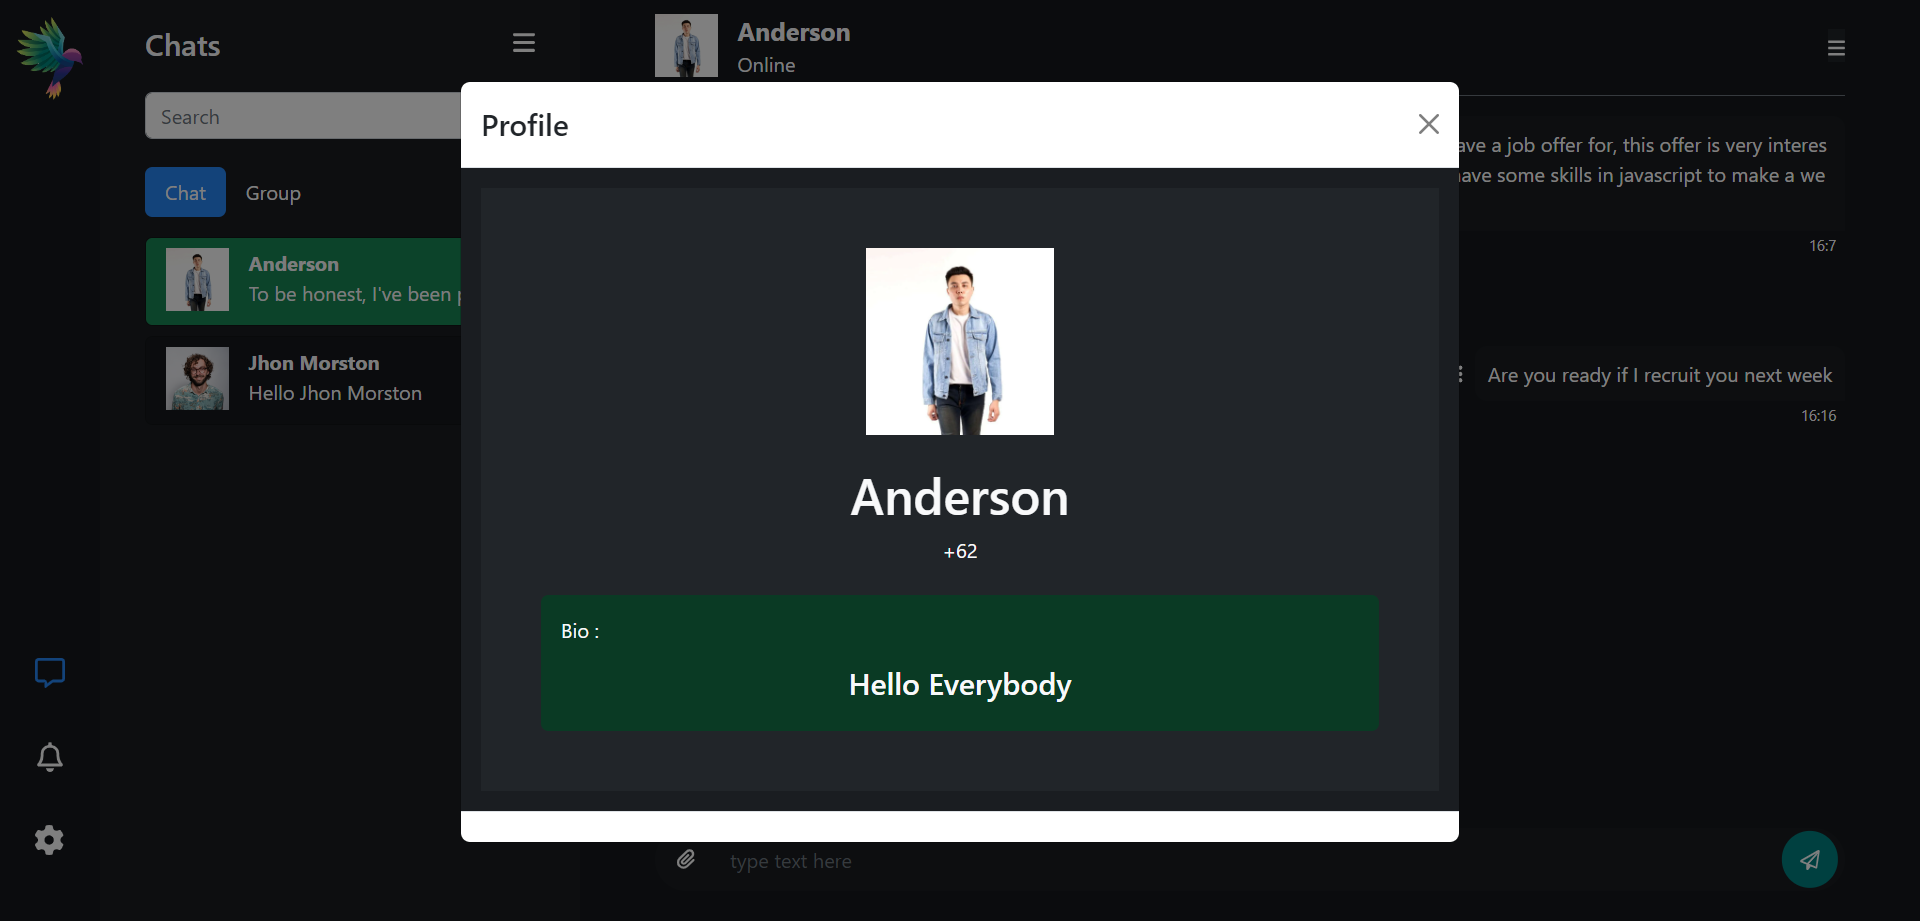
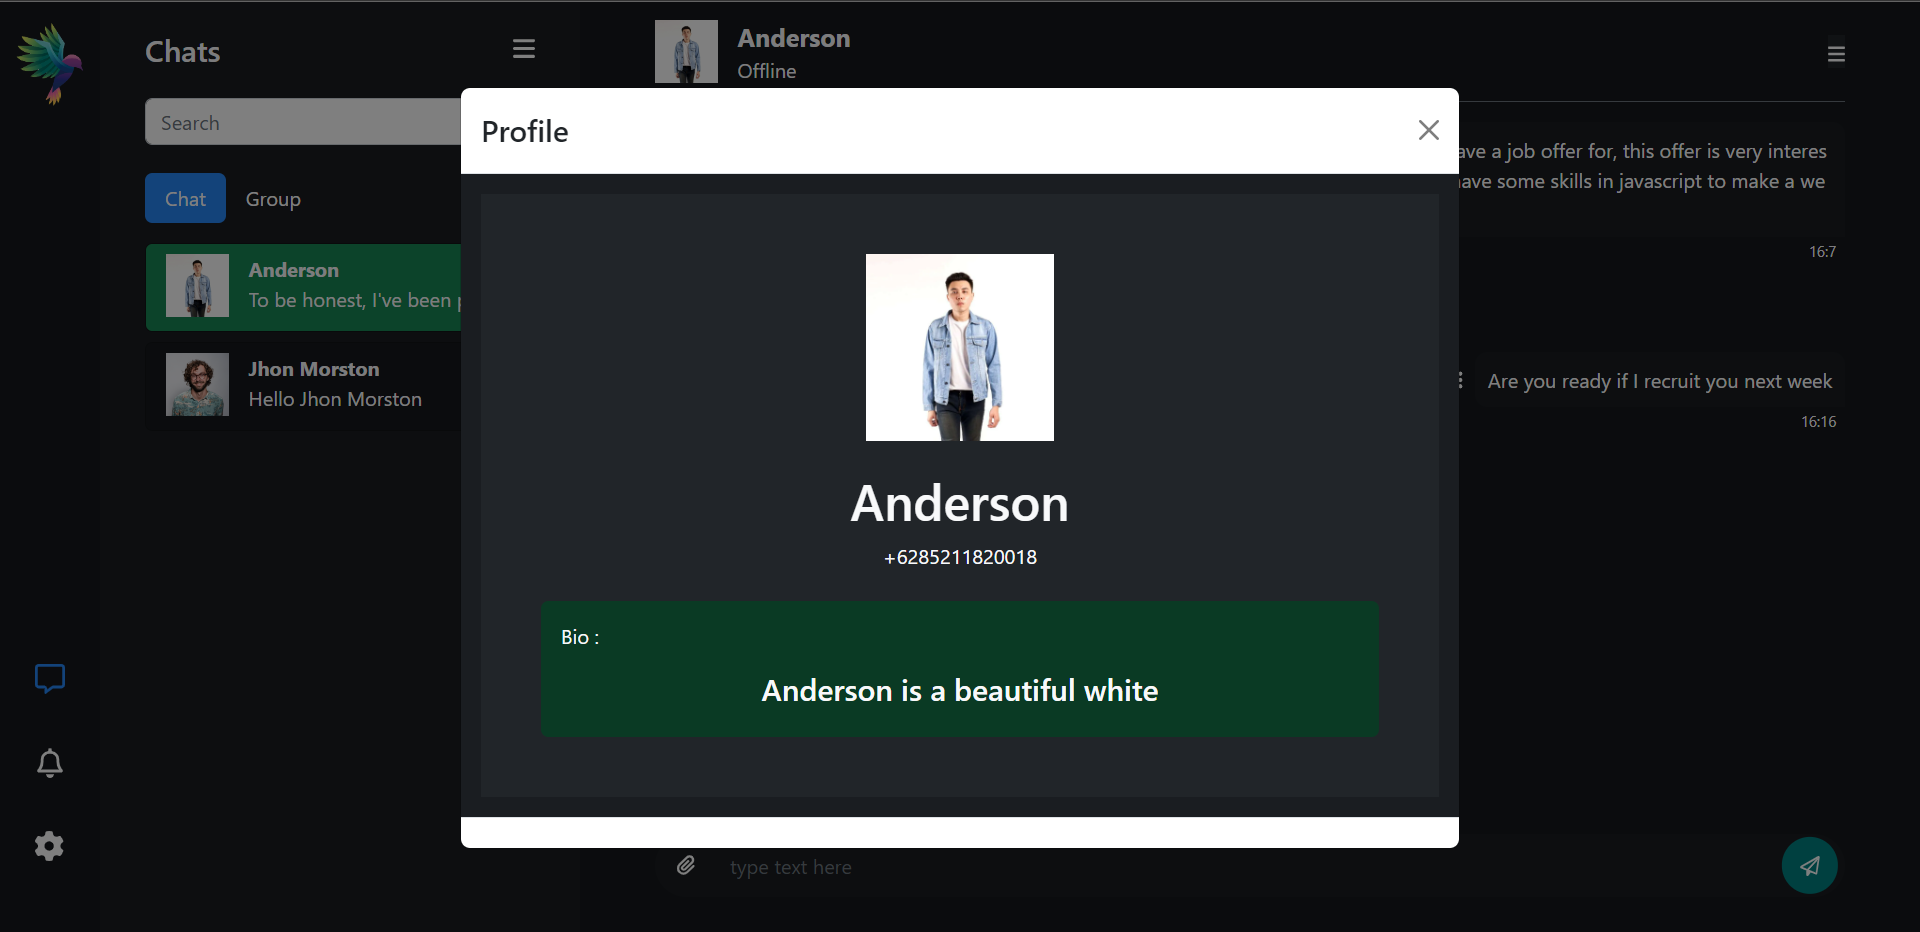
edit middleware, profile

diff --git a/src/components/ModalProfileUser/ModalProfile.jsx b/src/components/ModalProfileUser/ModalProfile.jsx
@@ -27,10 +27,10 @@ function ModalVertikal(props) {
               <img src={data?.photo || admin} alt="" width={150} height={150} />
               <span className='text-center text-light'>
                   <h1 className='text-light pt-4'>{data?.username === undefined ? 'User' : data?.username}</h1>
-                  <p className='m-0'>{data?.phone !== undefined ? '+62' : data?.phone === undefined ? '+62' : data?.phone}</p>
+                  <p className='m-0'>{'+628' + data?.phone.slice(2)}</p>
                   <div className='bg-main-green w-100 h-25 mt-4 rounded p-3'>
                       <p className='text-start'>Bio :</p>
-                      <h4 >{data?.bio === undefined ? data?.bio : 'Hello Everybody'}</h4>
+                      <h4 >{data?.bio}</h4>
                   </div>
               </span>
             </div>

diff --git a/src/middleware/PrivateRoot.jsx b/src/middleware/PrivateRoot.jsx
@@ -5,7 +5,7 @@ const PrivateRoute = ({children}) => {
   const navigate = useNavigate()
 
   useEffect(() => {
-    if(!localStorage.getItem('token')) return navigate('/login')
+    if(!localStorage?.getItem('token') || localStorage?.getItem('token') === 'null') return navigate('/login')
   }, [])
   return children
 }
